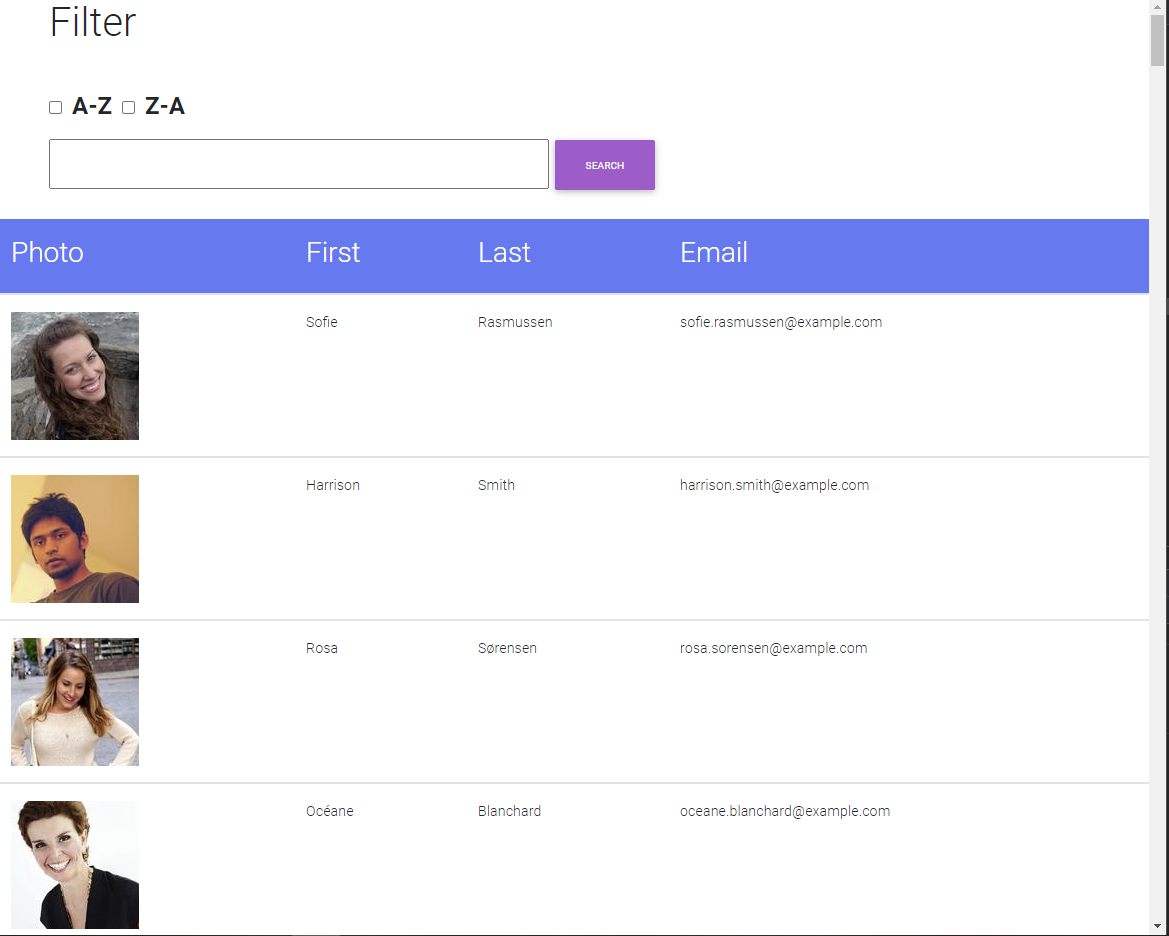
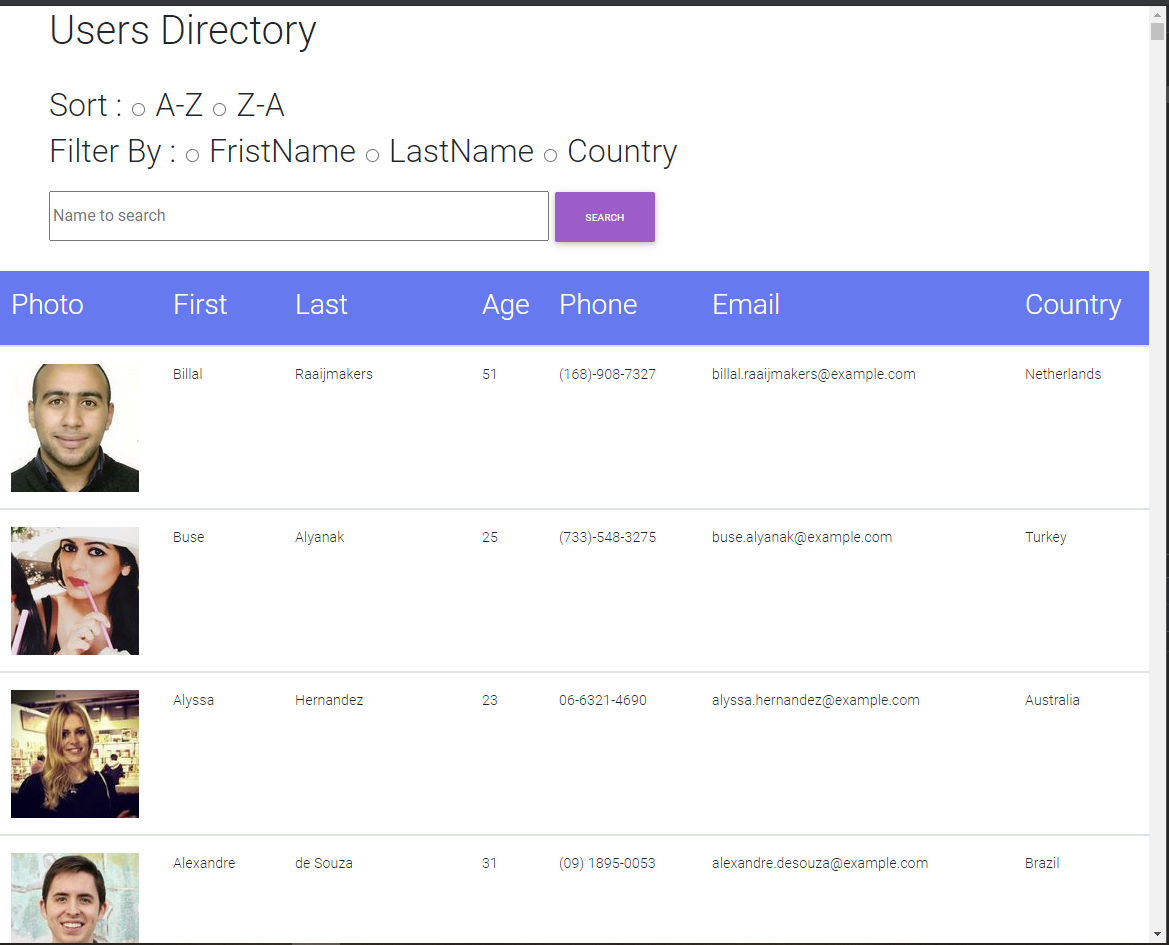
filter country added

diff --git a/users-app/src/components/RenderUsers.js b/users-app/src/components/RenderUsers.js
@@ -6,12 +6,11 @@ class RandomUsers extends React.Component {
 	state = {
 		loading: true,
 		users: [],
-		firstName: false,
-		lastName: false
+		filter: ''
 	};
 
 	async componentDidMount() {
-		const url = 'https://randomuser.me/api/?results=100';
+		const url = 'https://randomuser.me/api/?results=3000';
 		const response = await fetch(url);
 		const data = await response.json();
 
@@ -38,12 +37,13 @@ class RandomUsers extends React.Component {
 	}
 
 	handleFirstName = () => {
-		this.setState({ firstName: true });
-		this.setState({ lastName: false });
+		this.setState({ filter: 'firstname' });
 	};
 	handleLastName = () => {
-		this.setState({ lastName: true });
-		this.setState({ firstName: false });
+		this.setState({ filter: 'lastname' });
+	};
+	handleCountry = () => {
+		this.setState({ filter: 'country' });
 	};
 
 	handleOrderAZ = () => {
@@ -66,17 +66,30 @@ class RandomUsers extends React.Component {
 		e.preventDefault();
 		const title = this.title;
 
-		if (this.state.firstName === true) {
-			this.setState({ users: this.state.users.filter((user) => user.name.first === title.value) });
-		}
-		if (this.state.lastName === true) {
-			this.setState({ users: this.state.users.filter((user) => user.name.last === title.value) });
+		switch (this.state.filter) {
+			case 'firstname':
+				this.setState({ users: this.state.users.filter((user) => user.name.first === title.value) });
+				break;
+			case 'lastname':
+				this.setState({ users: this.state.users.filter((user) => user.name.last === title.value) });
+				break;
+			case 'country':
+				this.setState({ users: this.state.users.filter((user) => user.location.country === title.value) });
+				break;
+
+			default:
+				break;
 		}
 	};
 
 	render() {
 		if (this.state.loading) {
-			return <div> Loading... </div>;
+			return (
+				<div>
+					{' '}
+					<h1>Loading... </h1>
+				</div>
+			);
 		}
 
 		if (!this.state.users) {
@@ -94,8 +107,9 @@ class RandomUsers extends React.Component {
 						<input type="radio" id="check2" value="ZA" name="sort" onChange={this.handleOrderZA} />Z-A
 						<br />
 						<label id="filter"> Filter By :</label>
-						<input type="checkbox" id="radio1" name="filter" onChec={this.handleFirstName} />FristName
-						<input type="checkbox" id="radio2" name="filter" onChange={this.handleLastName} />LastName
+						<input type="radio" id="radio1" name="filter" onChange={this.handleFirstName} />FristName
+						<input type="radio" id="radio2" name="filter" onChange={this.handleLastName} />LastName
+						<input type="radio" id="radio3" name="filter" onChange={this.handleCountry} />Country
 						<br />
 					</h2>
 					<input

diff --git a/users-app/src/index.css b/users-app/src/index.css
@@ -25,7 +25,7 @@ code {
 
 }
 
-#check2,#check1,#radio1,#radio2{
+#check2,#check1,#radio1,#radio2,#radio3{
   margin: 10px;
   font-size: x-large;
   font-weight: bold;

diff --git a/README.md b/README.md
@@ -15,8 +15,11 @@ What this project does is list of users where you can see al the info of the use
 -   User
     -       Photo
     -       Name
-    -       Lasname
+    -       Laatname
+    -       Age
+    -       Phone
     -       Email
+    -       Country
 
 You can Search by name or lastname.
 
@@ -38,6 +41,7 @@ Run the terminal the main file called "npm start" with Node .
 -   Website load a list of users when loads.
 -   To look for a user just typing the name in the input text .
 -   To sort the user A-Z or Z-A just clicking in the radio buttons.
+-   To Filter by firstName, LastName or Country just click in the radio button then search
 
 ## Main Page
 
